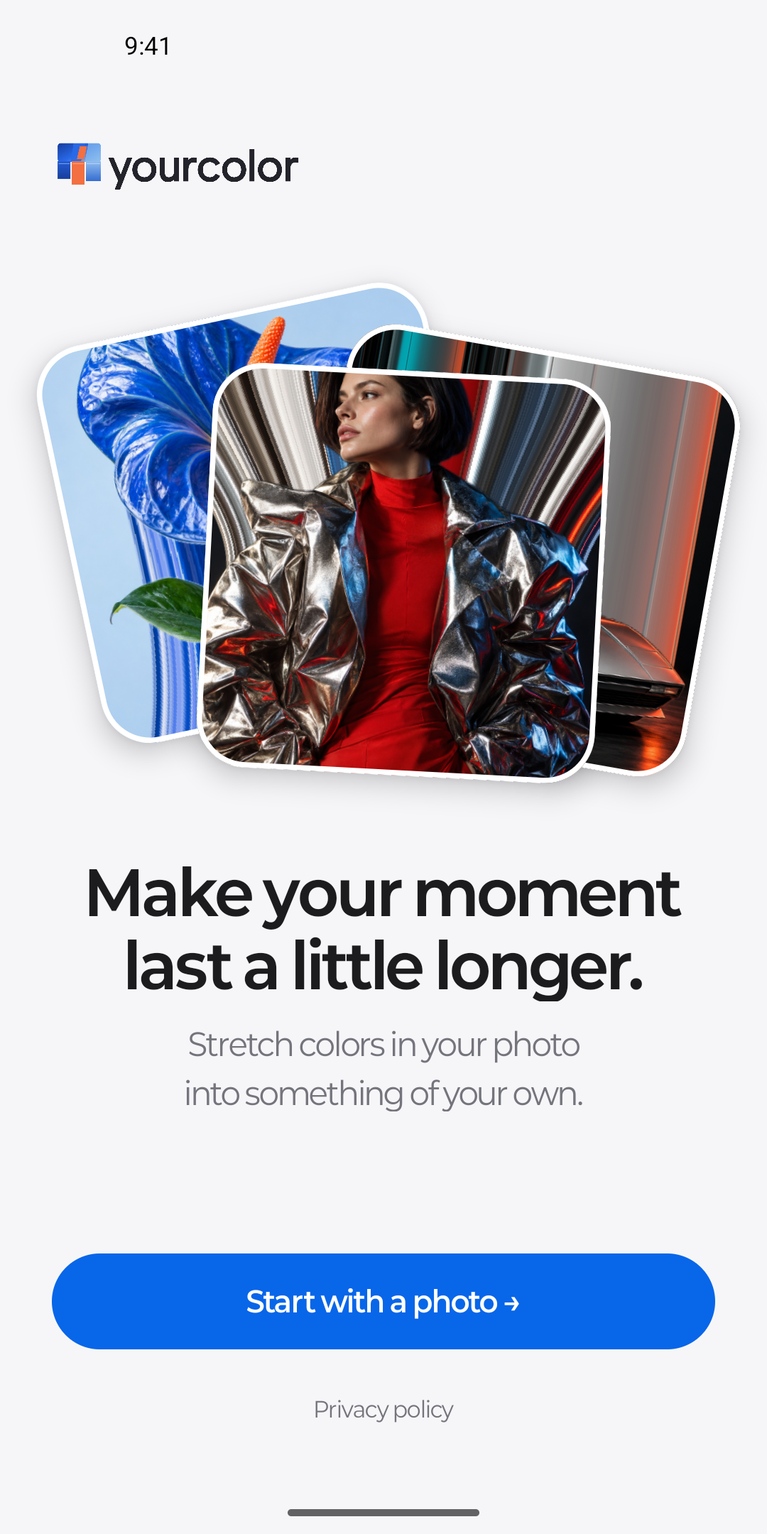
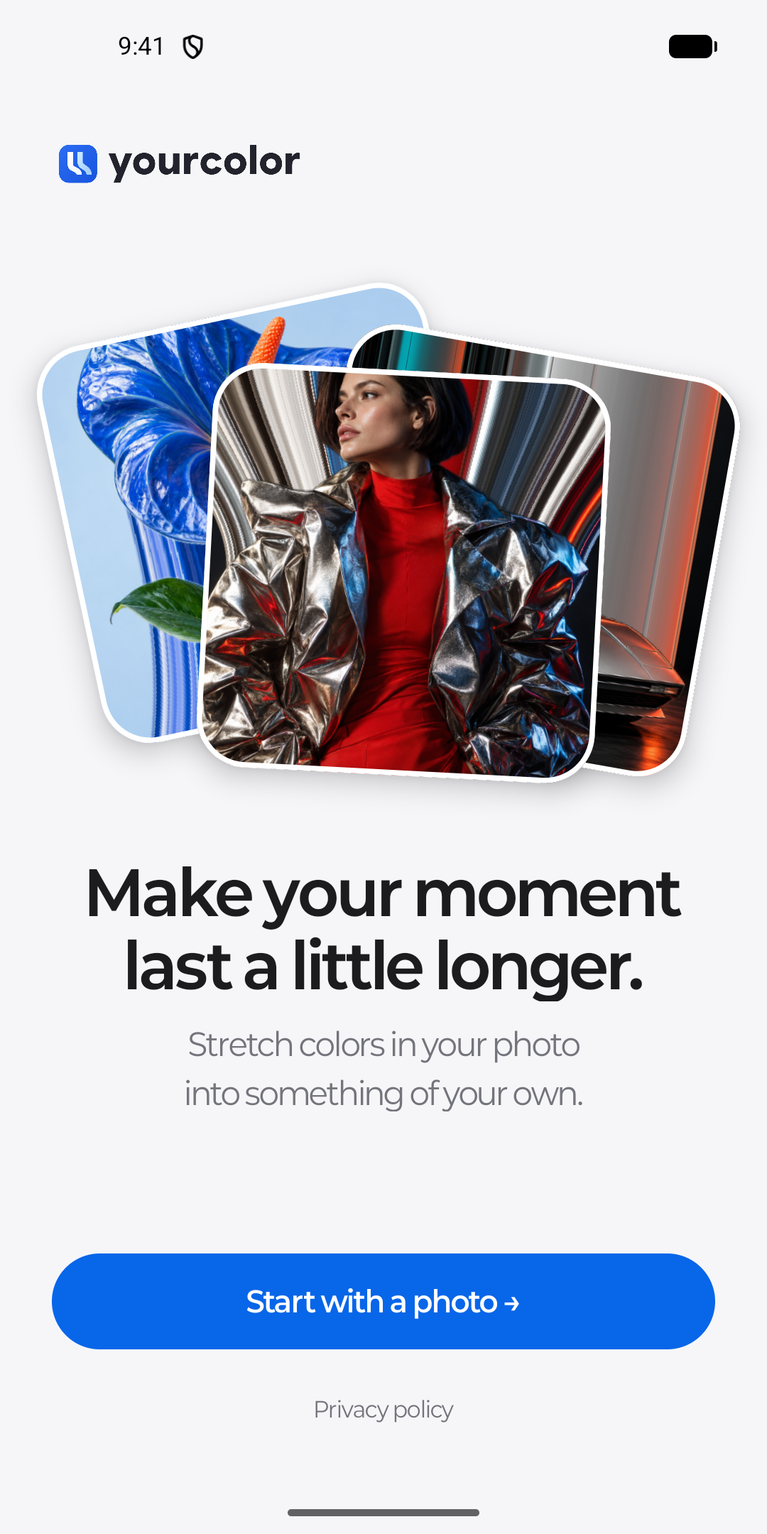
Prepare branded Android 2.0.2 release

diff --git a/privacy-android.html b/privacy-android.html
@@ -1,0 +1,64 @@
+<!doctype html>
+<html lang="ko">
+<head>
+  <meta charset="utf-8">
+  <meta name="viewport" content="width=device-width, initial-scale=1">
+  <title>YourColor Privacy Policy · 개인정보 처리방침</title>
+  <style>
+    body { margin: 0; background: #f6f6f9; color: #1c1c1e; font: 16px/1.7 system-ui, sans-serif; }
+    main { box-sizing: border-box; max-width: 760px; margin: 0 auto; padding: 48px 24px 80px; }
+    h1 { font-size: 32px; line-height: 1.3; margin: 0 0 12px; }
+    h2 { font-size: 20px; line-height: 1.4; margin: 36px 0 10px; }
+    p { margin: 0 0 14px; }
+    .date { color: #74747c; }
+    a { color: #0866e9; }
+    nav { display: flex; gap: 20px; margin-bottom: 28px; }
+    .english { border-top: 1px solid #dedee4; margin-top: 54px; padding-top: 24px; }
+  </style>
+</head>
+<body>
+<main>
+  <nav><a href="#en">English</a><a href="#ko">한국어</a></nav>
+  <section id="ko" lang="ko">
+  <h1>YourColor 개인정보 처리방침</h1>
+  <p class="date">시행일: 2026년 10월 11일</p>
+
+  <h2>1. 버전 2.0.0 이후: 처리하는 정보와 목적</h2>
+  <p>YourColor는 사용자가 Android 사진 선택기를 통해 고른 사진을 픽셀 스트레치 편집과 피사체 분리에 사용합니다. 사진은 사용자가 선택할 때만 접근하며, 앱의 전용 캐시에 복사해 기기 안에서 처리합니다. 피사체 분리에는 앱에 포함된 U²-NetP 모델을 사용합니다.</p>
+
+  <h2>2. 버전 2.0.0 이후: 전송과 제3자 제공</h2>
+  <p>버전 2.0.0 이후에는 인터넷 권한, 계정, 광고·분석 SDK와 자체 서버가 없습니다. 이 버전은 선택한 사진이나 편집 결과를 개발자 또는 제3자 서버로 전송하지 않습니다. 사용자가 시스템 저장 화면에서 외부 서비스를 저장 위치로 직접 선택하는 경우, 그 서비스의 처리는 해당 서비스의 정책에 따릅니다.</p>
+
+  <h2>3. 버전 2.0.0 이후: 보관과 삭제</h2>
+  <p>선택한 사진의 앱 전용 임시 복사본은 사진을 바꾸거나 홈으로 돌아갈 때 삭제합니다. 새 앱 세션을 시작할 때 남은 임시 사진을 정리합니다. 편집 중 생성한 임시 JPG는 앱의 캐시에 저장되며, 24시간이 지난 파일은 다음 앱 시작 때 삭제합니다. 사용자가 저장한 결과는 선택한 기기 사진 보관함 또는 저장 위치에 남고, 앱은 이를 자동으로 삭제하지 않습니다. 사용자는 기기의 사진·파일 앱에서 저장 결과를 직접 삭제할 수 있습니다. 앱 삭제 시 앱 전용 캐시도 삭제됩니다.</p>
+
+  <h2>4. 기존 버전 1: 데이터 처리</h2>
+  <p>이전에 제공된 버전 1(옛 이름 ‘너의퍼스널컬러는’)은 인터넷에 연결하고 외부 웹페이지를 열며 Google Mobile Ads 등 광고·분석 SDK를 포함합니다. 이 SDK를 통해 IP 주소(대략적인 위치 추정에 사용될 수 있음), 앱 상호작용, 진단 정보, 기기 또는 광고 식별자가 Google 등 SDK 제공자에게 전송될 수 있습니다. 이 정보는 광고 제공·측정, 사용 통계, 사기 방지에 이용될 수 있습니다. 전송 중에는 보안 연결을 사용합니다. SDK 제공자의 보관과 삭제 방식은 <a href="https://policies.google.com/privacy">Google 개인정보처리방침</a> 등 각 제공자의 정책을 따릅니다. 버전 2.0.0 이후에는 이 광고·분석 SDK가 포함되지 않습니다.</p>
+
+  <h2>5. 보안과 권리</h2>
+  <p>버전 2.0.0 이후에는 사진을 기기 안에서만 처리하고 앱 전용 공간에 임시 파일을 보관합니다. 별도의 회원 계정이나 개발자 서버 저장 데이터는 없습니다. 처리에 대한 문의나 삭제 요청은 아래 연락처로 보내 주세요. 기기에 저장한 결과의 삭제는 기기의 사진·파일 앱에서 직접 할 수 있습니다.</p>
+
+  <h2>6. 문의처</h2>
+  <p>YourColor 개인정보 문의: <a href="mailto:legendspeeches@gmail.com">legendspeeches@gmail.com</a></p>
+  <p>이 방침은 YourColor Android 앱에 적용됩니다. 처리 방식이 바뀌면 앱과 공개 방침을 함께 갱신합니다.</p>
+  </section>
+  <section id="en" lang="en" class="english">
+    <h1>YourColor Privacy Policy</h1>
+    <p class="date">Effective date: October 11, 2026</p>
+    <h2>1. Version 2.0.0 and later: Information used and purpose</h2>
+    <p>YourColor uses photos you choose through the Android Photo Picker to create pixel stretch artwork and separate subjects. The app accesses a photo only when you select it, copies it into its private cache, and processes it on your device. Subject separation uses a U²-NetP model bundled with the app.</p>
+    <h2>2. Version 2.0.0 and later: Transfers and third parties</h2>
+    <p>Version 2.0.0 and later has no internet permission, user accounts, advertising or analytics SDKs, or developer server. It does not send selected photos or edited images to the developer or a third-party server. If you choose an external service as the save destination in the system save screen, that service handles the file under its own policy.</p>
+    <h2>3. Version 2.0.0 and later: Storage and deletion</h2>
+    <p>The app deletes its temporary copy of a selected photo when you change photos or return home. Remaining temporary photos are cleared when a new app session starts. Temporary JPG files created during editing stay in the app cache; files older than 24 hours are deleted the next time the app starts. Saved images remain in the photo library or location you chose. The app does not delete them automatically. You can delete them in your device&#x27;s Photos or Files app. Uninstalling YourColor also removes its private cache.</p>
+    <h2>4. Earlier version 1: Data handling</h2>
+    <p>The earlier version 1 app (formerly named 너의퍼스널컬러는) connects to the internet, opens external web pages, and contains advertising and analytics SDKs, including Google Mobile Ads. These SDKs may transmit your IP address (which can be used to estimate approximate location), app interactions, diagnostics, and device or advertising identifiers to Google or other SDK providers. This information may be used to deliver and measure ads, analyze usage, and prevent fraud. Transmission uses a secure connection. Each provider&#x27;s policy, including the Google Privacy Policy (https://policies.google.com/privacy), governs retention and deletion. These advertising and analytics SDKs are absent from version 2.0.0 and later.</p>
+    <h2>5. Security and your choices</h2>
+    <p>Version 2.0.0 and later processes photos on the device and keeps temporary files in the app&#x27;s private space. There is no separate user account or data stored on a developer server. For questions about data handling or deletion, use the contact below. You can delete saved images directly from your device&#x27;s Photos or Files app.</p>
+    <h2>6. Contact</h2>
+    <p>YourColor privacy inquiries: legendspeeches@gmail.com</p>
+    <p>This policy applies to the YourColor Android app. If data handling changes, the in-app and public policies will be updated together.</p>
+  </section>
+</main>
+</body>
+</html>

diff --git a/android/release/RELEASE_CHECKLIST.md b/android/release/RELEASE_CHECKLIST.md
@@ -1,0 +1,49 @@
+# YourColor 기존 Google Play 앱 업데이트 준비
+
+최종 갱신: 2026-10-13. 이 문서는 `com.robotics.yourcolor`의 **기존 앱 업데이트**를 기록합니다. 새 픽셀 스트레치 앱 `versionCode=4`, `versionName=2.0.0`은 사용자 승인에 따라 2026-10-13 **프로덕션에 게시됐습니다.** Play 프로덕션 대시보드는 `활성 / 최신 출시 버전 4 (2.0.0)`, 대상 177개 국가/지역으로 표시합니다. 프로덕션 출시 탭은 `Google Play에 제공됨`, 콘솔 표시 게시 시각은 2026-10-13 오후 2:47입니다. 이전 공개 버전은 2022년의 코드 1이었고 코드 2·3은 출시하지 않았습니다.
+
+## 현재: 코드 6 (2.0.2) Google 검토 중
+
+- 코드 5(2.0.1)는 Play에 업로드됐지만 비활성 상태입니다. 이 버전 코드를 다시 사용할 수 없어 브랜딩 업데이트는 코드 6으로 제출했습니다. **현재 공개 프로덕션 버전은 여전히 코드 4(2.0.0)**입니다.
[1 lines of base64/hex data omitted]
+- Play는 코드 6 AAB를 접수했습니다. 프로덕션 100% 출시 설정과 스토어 등록정보를 포함한 **변경사항 8건을 Google 검토에 제출**했고, 게시 개요에는 `검토 중인 변경사항`으로 표시됩니다. 관리형 게시를 꺼서 승인되면 자동 게시되도록 설정했습니다. **코드 6은 아직 공개되지 않았습니다.** 검토 통과 후 실제 공개 상태를 다시 확인합니다.
+- 이번 제출의 앱 이름은 `yourcolor - 나만의 pixel stretch`, 공식 한국어 문구는 `사진 속 색을 펼쳐 만드는 나만의 픽셀 스트레치.`입니다. [한국어 문안](PLAY_STORE_KO.md)과 [영어 문안](PLAY_STORE_EN.md)에 코드 6 새 소식을 기록했습니다. 승인된 파란 리본 아이콘과 꽃 전후 비교 그래픽, 현지화된 휴대전화 스크린샷의 지역별 표시는 공개 후 확인합니다.
+
+## 코드 4의 배포·서명 이력
+
+- 기존 앱과 패키지명 `com.robotics.yourcolor`를 Play Console에서 대조했습니다. Play App Signing이 켜져 있습니다. 기존 프로덕션 코드 1의 공식 Play 서명 APK와 코드 4의 공식 Play 서명 APK를 확보했습니다. API 37 에뮬레이터에서 코드 1 설치 후 코드 4 공식 APK를 `install -r`로 설치해 성공했습니다. `firstInstallTime`과 앱 전용 파일의 SHA-256이 유지되고 코드 4가 정상 실행됐습니다. 검증 로그는 `../app/build/outputs/validation/play-v1-to-v4-update.txt`입니다.
+- 새 업로드 키는 `~/Library/Application Support/YourColor/release/upload-key-2026.p12`에, 비밀번호 파일은 같은 디렉터리에 있습니다. 두 파일은 Git에서 제외하며 내용은 문서·로그에 기록하지 않습니다. Play에 표시된 새 업로드 인증서 SHA-256은 `4B:CB:86:A3:37:A0:F9:C0:83:AE:E7:E0:04:A8:B7:EA:4B:44:93:BB:C5:BA:F0:70:51:78:86:BE:69:C6:61:00`이고 로컬 후보 키와 일치했습니다.
+- 키 사용 대기 시간은 끝났습니다. Play는 2026-10-13에 새 키로 서명한 코드 2·3·4 AAB를 접수했습니다. 코드 4는 내부 테스트에 출시됐고 이후 프로덕션에도 게시됐습니다. 코드 2·3은 출시하지 않았습니다. Play의 Android 개발자 인증 대시보드에는 이 앱이 **등록됨 / 소유권 확인됨**으로 표시됩니다. 별도의 앱 서명 APK 소유권 증명은 요구되지 않았습니다.
[1 lines of base64/hex data omitted]
+
+## 코드 4의 스토어·정책 게시 이력
+
+- 코드 4 공개 당시 앱 이름은 `YourColor`, 분류는 **사진**이며 태그는 사진·사진 편집기·예술/디자인입니다. 기존 퍼스널 컬러 진단 앱에서 기능이 크게 바뀌므로 이 사실을 당시 릴리스 노트에 명시했습니다. 코드 6 제출용 문안은 위에 연결한 파일에 따로 기록했습니다.
+- 기본 스토어 언어는 영어(미국)이고 영어(캐나다)·한국어 등록정보를 추가했습니다. 영문 휴대전화 스크린샷은 미국·캐나다에 각각 4장, 한국어는 6장입니다. 새 아이콘·기능 그래픽을 저장하고 구버전 태블릿 스크린샷은 제거했습니다. AI 생성 샘플 사진이 든 자산에는 Play의 AI 애셋 라벨을 지정했습니다.
[1 lines of base64/hex data omitted]
+- Play에 금융·건강 기능 없음, 정부 앱 아님, 코드 4의 광고 ID 미사용을 신고했습니다. 이전 코드 1에는 광고·분석 SDK가 있었으므로 데이터 보안 양식에는 그 버전의 대략적 위치(IP 추정), 앱 상호작용, 진단, 기기/기타 ID의 수집·공유 및 광고·분석·사기 방지 목적을 반영했습니다. 코드 4에는 인터넷 권한과 광고·분석 SDK가 없습니다. 게시 후 Play 데이터 보안 공개 표기와 배포 중인 버전 범위를 다시 확인해야 합니다.
+- 공개 문의 주소는 `legendspeeches@gmail.com`이고 연결되지 않는 `yourcolor.kr` 주소는 제거했습니다. 앱은 무료이며 프로덕션 대상은 미국·캐나다·한국을 포함한 177개 국가/지역입니다. 계정·결제·광고가 없는 사진 편집 앱이라는 현재 앱 액세스·대상 연령·콘텐츠 등급 선언을 다시 대조했습니다.
+- 스토어·앱 콘텐츠와 코드 4 비공개 Alpha·프로덕션을 포함한 **15개 변경사항**은 Google 검토를 통과했습니다. 사용자 승인에 따라 관리형 게시 상태에서 Play Console의 **`변경사항 15개 게시` → `변경사항 출시`**를 실행했고 **`변경사항이 게시되었습니다.`** 확인 문구를 봤습니다. 프로덕션 대시보드와 출시 탭에서 코드 4 제공 상태를 재확인했습니다. 관리형 게시 설정은 공개 시점을 제어하는 데 사용했습니다.
+
+## 코드 4의 로컬 검증과 알려진 한계
+
+- 코드 4 릴리스 APK·AAB 빌드가 성공했습니다. API 24 에뮬레이터에서 연결 테스트 9개 통과·API 29 이상 전용 1개 건너뜀, API 37에서 10개 통과했습니다. API 36의 **16KB 페이지 크기 에뮬레이터**에서는 최종 전체 계측 검사 **10개가 한 번에 통과**했습니다. 초기 검사에서 8px 스크롤 위치 차이로 실패한 이력과 최종 재검사 로그는 [검증 기록](../../document/android-validation.md)에 구분했습니다. 8개 화면 프로필도 통과했습니다.
+- 코드 3의 API 24 홈 시작 버튼은 잘렸지만 코드 4에서는 같은 화면 크기로 다시 확인했습니다. Pixel Fold 에뮬레이터의 `OPENED`·`CLOSED`·`HALF_OPENED` 상태와 가로 회전에서 편집 상태 유지도 확인했습니다. 실제 제조사 힌지와 One UI 동작은 별도입니다.
+- Play Bundle Explorer는 코드 4에서 **16KB 페이지 크기 지원**을 감지했습니다. 이 신호와 에뮬레이터 실행은 서로 다른 검증입니다. 최종 코드 4에서 `assembleRelease`, `bundleRelease`, `lintVitalRelease` 성공을 확인했습니다. `testDebugUnitTest`와 `lintDebug`는 코드 4 수정 후 다시 실행한 결과가 아직 없습니다.
+- 사용자는 실기기를 보유하지 않으며 실기기 시험은 이번 출시의 필수 조건에서 제외했습니다. 에뮬레이터 및 Play 사전 출시 보고서로 API 24·최신 API, 폴더블 크기·회전·접힘/펼침과 16KB 페이지 크기 환경을 가능한 범위에서 확인합니다. Z Fold의 One UI·실제 힌지·실기기 성능과 LG V20 실기기 동작은 확인되지 않은 범위로 명시합니다.
+- 게시 **전** Play 정책 상태에는 코드 1에 대한 대상 API 35/36, 16KB 페이지 크기, 구형 SDK 경고가 남아 있었습니다. 코드 4는 `targetSdk 36`이며 16KB 지원과 에뮬레이터 실행을 확인했습니다. 게시 직후 정책 화면에도 해당 경고가 남아 있었으므로 Play 상태 갱신을 계속 확인해야 합니다. 한국어 공개 스토어에서는 버전 2.0.0, 새 설명·스크린샷·사진 분류와 데이터 보안 항목을 확인했습니다. 코드 4 프로덕션 비교 화면에는 지원 기기 축소(전화 1,630개, 태블릿 404개, TV 3개)가 표시됐습니다. 대부분 `minSdk 24`로 올라간 영향이며 Play가 표시한 전화·태블릿의 영향 받는 기존 설치 수는 각각 0입니다. TV의 영향 설치 수는 확인되지 않았습니다.
+
+## 코드 6 검토·게시 후 확인 항목
+
+1. Google 검토 결과와 자동 게시 상태를 확인합니다. 승인 후 Play 프로덕션 대시보드와 공개 스토어에 코드 6(2.0.2)이 표시되는지 확인합니다. 100% 출시 설정만으로 공개됐다고 기록하지 않습니다.
+2. 한국어·영어(미국·캐나다) 앱 이름·짧은 설명·아이콘·기능 그래픽·휴대전화 스크린샷 및 AI 애셋 라벨을 지역별 공개 스토어에서 확인합니다.
+3. 공개 개인정보처리방침 페이지와 앱 내 한국어·영어 정책 사본의 시점 표현을 맞추고, 데이터 보안 신고·정책 경고·사전 출시 보고서·충돌 및 ANR 상태를 확인합니다.
+
+## 코드 4 게시 직후의 확인 기록
+
+1. 게시 직후에도 남은 코드 1 관련 대상 API·16KB·SDK 경고가 Play에서 갱신되는지 확인합니다. 한국어 공개 스토어의 버전 2.0.0, 새 설명·이미지·사진 분류, 데이터 보안 항목은 확인했습니다. 미국·캐나다의 지역별 문안·이미지와 공개 개인정보처리방침 연결도 추가 확인합니다. Play 대시보드의 `활성 / 최신 출시 버전 4 (2.0.0)` 및 177개 국가/지역은 이미 확인했습니다.
+2. Play 사전 출시 보고서는 게시 직후에도 개요에 **‘아티팩트를 업로드하여 사전 출시 보고서 생성’** 안내만 보여 결과가 없었습니다. 추후 결과가 나타나면 충돌·호환성·정책 경고에 대응합니다. 테스터 이메일이나 사용자 실기기를 필수 선행 조건으로 두지 않습니다.
+3. 코드 4의 `testDebugUnitTest`·`lintDebug`는 마지막 수정 후 재실행 결과가 없으므로 필요하면 실행합니다. 16KB 전체 계측 테스트는 최종 10개 모두 통과했습니다. 실기기에서만 확인 가능한 범위는 [검증 기록](../../document/android-validation.md)에 남깁니다.
+4. 6시간 간격의 Codex heartbeat `YourColor 배포 후 확인`을 다시 활성화했습니다. 2026-10-15 오후 3시(미 동부)까지 공개 버전·정책 경고·사전 출시 보고서·충돌 및 ANR 상태를 확인하고, 상태 변화나 조치가 필요할 때만 알립니다. Muse의 시간당 감시는 별도 일정으로 등록되지 않았습니다.
+
+공식 자료: [앱 업데이트](https://support.google.com/googleplay/android-developer/answer/9859350), [Play App Signing](https://support.google.com/googleplay/android-developer/answer/9842756), [데이터 보안](https://support.google.com/googleplay/android-developer/answer/10787469).

diff --git a/document/android-validation.md b/document/android-validation.md
@@ -1,17 +1,25 @@
 # Android 디자인 v4 검증 기록
 
-기초 검증일: 2026-10-11. 2026-10-13 출시 후보 상태를 아래에 덧붙였습니다. 제목의 v4는 **디자인 시안 버전**이며 Play의 `versionCode=4`와 다릅니다. 승인된 `yourcolor-design-v4.html`을 Kotlin 네이티브 앱으로 반영했습니다. 이 기록은 초기 ML Kit·자동 구도 앱의 이전 검증을 대체합니다. 현 구현은 자동 구도를 적용하지 않으며, U²-NetP를 앱에 포함합니다.
+기초 검증일: 2026-10-11. 코드 4 공개 검증 및 코드 6 후보 기록 갱신일: 2026-10-13. 제목의 v4는 **디자인 시안 버전**이며 Play의 `versionCode=4`와 다릅니다. 승인된 `yourcolor-design-v4.html`을 Kotlin 네이티브 앱으로 반영했습니다. 이 기록은 초기 ML Kit·자동 구도 앱의 이전 검증을 대체합니다. 현 구현은 자동 구도를 적용하지 않으며, U²-NetP를 앱에 포함합니다.
 
 2026-10-11의 홈·로딩·피사체 화면 정리 후 API 37의 일반 화면에서 실제 캡처로 하단 여백 24dp와 편집 헤더의 세로 중심을 확인했습니다. API 24 에뮬레이터도 재부팅에 성공해 당시 구현의 기능 테스트를 실행했습니다. 이후 코드 3에서 API 24 홈 시작 버튼이 잘리는 문제가 발견됐으므로 아래의 과거 화면 검사 통과는 최종 출시 후보의 검증으로 간주하지 않습니다.
 
-## 2026-10-13 출시 후보 상태
+## 2026-10-13 코드 6 후보 상태
 
-- Play 내부 테스트 초안에 새 업로드 키로 서명한 코드 2·3 AAB가 접수됐습니다. 두 번들 모두 출시되지 않았습니다. 업로드 키 대기와 Android 개발자 인증 단계는 끝났고 대시보드에는 앱이 **등록됨 / 소유권 확인됨**으로 표시됩니다.
-- 코드 3에서 API 24 홈 시작 버튼의 하단 잘림을 발견했습니다. 수정 후 코드 4 (`versionName=2.0.0`)를 새 후보로 빌드·검증합니다. 코드 4의 테스트, 서명, SHA-256, Play 접수와 사전 출시 보고서는 아직 완료로 기록하지 않습니다.
-- Play의 공식 서명 코드 1 APK를 확보했습니다. 이를 설치한 뒤 코드 4로 업데이트하는 검사는 별도로 확인해야 합니다. 전용 16KB 페이지 크기 에뮬레이터 실행, 폴더블 접힘·펼침 및 회전의 최종 후보 검증도 결과가 나온 뒤 기록합니다.
-- 계정별 `adi-registration.properties`는 배포 소스와 AAB에서 제거해야 합니다. 빌드 설정에 파일 존재 시 실패하는 검사가 추가됐으며 최종 번들 내용 검사로 확인합니다.
+- Play 프로덕션의 최신 공개 버전은 코드 4(2.0.0)입니다. 코드 5(2.0.1)는 Play에 업로드됐지만 비활성 상태이며, 이번 브랜딩 업데이트는 코드 6(2.0.2)으로 준비했습니다. Play가 코드 6 AAB를 접수했고, 프로덕션 100% 출시와 등록정보를 포함한 변경사항 8건은 Google 검토 중입니다. 관리형 게시를 꺼서 승인되면 자동 게시되도록 설정했으며, 코드 6은 아직 공개되지 않았습니다.
[1 lines of base64/hex data omitted]
+- 아래 API 24·37·16KB 페이지 크기 계측 검사 및 화면 프로필은 **코드 4 공개 빌드의 기록**입니다. 코드 6에 대해 같은 전체 검사가 재실행됐다는 뜻은 아닙니다. 코드 6의 새 브랜드 자산은 앱 아이콘·홈 로고·영문 홈 스크린샷과 스토어 그래픽에서 별도 확인합니다.
 
-## 결과
+## 2026-10-13 코드 4 공개 검증
+
+- 코드 3에서 API 24 홈 시작 버튼의 하단 잘림을 발견해 수정했습니다. 코드 4 (`versionName=2.0.0`)를 새 업로드 키로 빌드해 내부 테스트와 프로덕션에 출시했습니다. 사용자 승인에 따라 관리형 게시에서 15개 변경사항을 게시했고 Play는 **`변경사항이 게시되었습니다.`**라고 확인했습니다. 프로덕션 대시보드는 **`활성 / 최신 출시 버전 4 (2.0.0)`**, 177개 국가/지역을 표시하며 출시 탭은 **`Google Play에 제공됨`**, 콘솔 표시 게시 시각은 2026-10-13 오후 2:47입니다.
[1 lines of base64/hex data omitted]
+- API 24 에뮬레이터에서 연결 테스트 **9개 통과·1개 건너뜀**(Android 10 이상 전용 검사), API 37에서 **10개 통과**했습니다. API 36의 **16KB 페이지 크기 에뮬레이터**에서도 최종 전체 계측 검사 **10개가 한 번에 통과**했습니다(`android/app/build/outputs/validation/16kb-api36-final-v4-green.txt`). 앞선 실행에서는 스크롤 위치가 30px 대신 22px으로 측정돼 레이아웃 검사 1개가 실패했으며, 단독 재실행과 최종 전체 재실행에서 통과했습니다. 초기 실패와 최종 결과를 모두 보존했습니다.
+- 화면 프로필 결과 JSON의 **8개 조건**이 통과했고, API 24 화면 조건은 별도 검사했습니다. Pixel Fold 에뮬레이터의 `OPENED`·`CLOSED`·`HALF_OPENED` 전환과 가로 회전에서 편집 상태가 유지됐습니다. Play Bundle Explorer도 코드 4의 **16KB 페이지 크기 지원**을 감지했습니다. 실제 Z Fold One UI·힌지 동작은 확인되지 않았습니다.
[1 lines of base64/hex data omitted]
+- Play 제출 ID 2가 `출시 준비` 상태가 된 뒤와 프로덕션 게시 직후에도 사전 출시 보고서 개요에는 **‘아티팩트를 업로드하여 사전 출시 보고서 생성’** 안내만 표시됐습니다. 게시 직후까지 보고서 결과는 없었습니다.
+
+## 2026-10-11 기준 결과 (이전 후보)
 
 - 당시 `assembleDebug`, `assembleDebugAndroidTest`, `testDebugUnitTest`, `lintDebug`, `assembleRelease`, `bundleRelease` 성공. 당시 APK·AAB는 새 업로드 키로 서명했으며 이후 Play가 같은 키로 서명한 AAB를 접수했습니다. 이 빌드 결과는 코드 4의 검사 결과가 아닙니다.
 - 순수 상태 단위 테스트 **7개 통과**.
@@ -19,7 +27,7 @@
 - Android 17/API 37 ARM64에서 테스트 **10개 통과**. 저장 준비 중 화면 재생성 후 파일 생성도 검사합니다.
 - 아래 화면 프로필에서 시작·선택·편집·피사체 보정·저장·저장 버튼 접근성 검사. Activity 재생성 시 조절값과 보정 초안 유지, 도구 전환 시 스크롤 유지도 검사합니다.
 - Lint **오류 0**. 남은 경고는 라이브러리 새 버전 알림, 그리기 중 객체 할당, KTX 스타일 제안, ChromeOS용 x86 ABI 제안 등입니다. API 24에서 호출할 수 없는 API 오류는 수정했습니다.
-- APK의 16KB ZIP 정렬 통과. 포함된 ARM64/ARMv7 ONNX 공유 라이브러리의 ELF LOAD 세그먼트도 16KB 정렬을 확인했습니다. **16KB 메모리 페이지 기기에서 실행한 결과는 아닙니다.**
+- 당시 APK의 16KB ZIP 정렬 통과. 포함된 ARM64/ARMv7 ONNX 공유 라이브러리의 ELF LOAD 세그먼트도 16KB 정렬을 확인했습니다. 이 당시에는 16KB 페이지 크기 실행을 하지 않았고, 위에 기록한 코드 4 검증에서 별도로 실행했습니다.
 - 최종 manifest에 `INTERNET` 권한이 없음을 실행 중 패키지 정보로 검사했고, 번들 모델로 세 샘플을 실제 추론했습니다.
 - 릴리스 APK를 **로컬 검증 전용 디버그 키**로 임시 서명해 API 37 에뮬레이터에 설치·실행했습니다. 이 파일은 Play 업로드에 사용하지 않습니다.
 
@@ -78,4 +86,4 @@ API 24 테스트 이미지의 앱 힙 한도는 48 MiB였습니다. 초기 1200p
 - 빌드·테스트 로그: `android/app/build/outputs/validation/`
 - 최종 개발용 APK: `android/app/build/outputs/apk/debug/app-debug.apk`
 
-검사 결과물과 APK는 생성 파일이므로 Git에서 제외합니다. 실기기 시험은 이번 출시의 필수 조건에서 제외했습니다. 2026-10-13 현재 Play 내부 테스트 초안의 코드 2·3은 공개되지 않았고 코드 4 검증이 남았습니다. 위의 16KB ZIP/ELF 정렬은 이전 후보의 결과이며 **16KB 페이지 크기 실행 성공을 의미하지 않습니다.** 삼성 One UI의 실제 힌지 전환·성능과 LG V20 동작은 실기기를 확보한 뒤 확인합니다. 프로젝트 저장 기능이 없어 프로세스가 완전히 종료되면 편집은 복구되지 않습니다.
+검사 결과물과 APK는 생성 파일이므로 Git에서 제외합니다. 실기기 시험은 이번 출시의 필수 조건에서 제외했습니다. 코드 4는 16KB 페이지 크기 에뮬레이터의 최종 전체 검사 10개를 통과했고 Play Bundle Explorer의 지원 감지도 확인했습니다. 코드 6에서 확인한 범위는 위의 후보 항목에 따로 적었습니다. 초기 레이아웃 검사 실패와 최종 통과는 위에 구분해 기록했습니다. 삼성 One UI의 실제 힌지 전환·성능과 LG V20 동작은 실기기를 확보한 뒤 확인합니다. 프로젝트 저장 기능이 없어 프로세스가 완전히 종료되면 편집은 복구되지 않습니다.

diff --git a/android/release/PLAY_STORE_KO.md b/android/release/PLAY_STORE_KO.md
@@ -1,0 +1,52 @@
+# Google Play 등록 문안 · 한국어
+
+픽셀 스트레치 앱의 한국어 스토어 문안입니다. 공개된 `versionCode=4`, `versionName=2.0.0`의 기능 설명을 유지하며, `versionCode=6`, `versionName=2.0.2`에서 확정된 이름·로고·이미지 자산을 적용합니다. 코드 6의 게시 상태는 Play Console과 공개 스토어에서 확인합니다.
+
+## 앱 이름
+
+yourcolor - 나만의 pixel stretch
+
+## 짧은 설명
+
+사진 속 색을 펼쳐 만드는 나만의 픽셀 스트레치.
+
+## 자세한 설명
+
+너의 순간을, 조금 더 길게.
+
+yourcolor는 사진 속 색을 길게 펼쳐 픽셀 스트레치 작품을 만드는 사진 편집 앱입니다. 사진을 고르고, 피사체를 다듬고, 원하는 방향과 모양을 정해 JPG로 저장하세요.
+
+• 위·아래·왼쪽·오른쪽으로 색 늘리기
+• 늘어나는 길이와 시작선 직접 조절
+• 직선·펼침·곡선 모양 선택
+• 브러시로 피사체 영역 보호·지우기
+• 원본 비교, 실행 취소·다시 실행
+• 완성 이미지를 기기에 JPG로 저장
+
+기본 제공 작품으로 편집을 먼저 체험할 수 있습니다. 선택한 사진은 기기 안에서 처리하며, 피사체 분리 모델은 앱에 포함되어 있습니다. 계정 가입 없이 사용할 수 있습니다.
+
+피사체 경계는 사진에 따라 다르게 인식될 수 있습니다. 머리카락이나 복잡한 배경은 브러시로 조정하세요. 저장한 이미지에는 워터마크가 없습니다.
+
+## 업데이트 새 소식 · 2.0.2
+
+새 로고와 앱 아이콘을 적용하고 시작 화면의 브랜드 디자인을 다듬었습니다.
+
+## 스토어 입력값 초안
+
+| 항목 | 입력값 또는 확인할 내용 |
+| --- | --- |
+| 문의 이메일 | legendspeeches@gmail.com |
+| 개인정보처리방침 | `https://ika9810.github.io/yourcolor-privacy/` (공개 HTTPS 페이지와 로컬 원문 해시 일치, Play 변경사항 게시 완료). |
+| 광고 | 코드 6에 광고 SDK·광고 화면 없음. 이전 코드 1에는 광고 SDK가 있었음. |
+| 앱 액세스 | 계정·로그인 없음. 기본 샘플로 기능 체험 가능. |
+| 데이터 보안 | 코드 6에는 인터넷 권한·광고·분석 SDK가 없음. 이전 코드 1의 광고·분석 SDK를 반영한 신고는 Play Console에 게시돼 있음. 코드 6 제출 시 신고 상태를 다시 확인함. |
+| 콘텐츠 등급·대상 연령 | 로그인·결제·광고 없는 사진 편집 기능과 Play 선언을 대조해 검토·게시함. 공개 표기는 게시 후 재확인 필요. |
+| 가격·국가 | 무료. 미국·캐나다·한국을 포함한 177개 국가/지역. |
+
+## 이미지 자산
+
+- `../release-assets/screenshots/`의 PNG 6장은 실제 에뮬레이터에서 1080×2160으로 캡처했습니다. 권장 순서: `01-home`, `02-editor`, `03-mask`, `06-export`. `05-mask-tools`는 피사체 다듬기의 하단 도구를 보여 주는 추가 컷이며 사진 상단은 스크롤로 잘려 있습니다. `04-controls`는 추가 도구 설명용입니다.
+- `../release-assets/store-icon.png`는 승인된 파란색 픽셀 스트레치 리본 로고의 512×512 PNG입니다. `../release-assets/feature-graphic.png`는 꽃 사진의 원본과 색을 펼친 결과를 함께 보여 주는 1024×500 PNG입니다. `branding/build-assets.cjs`로 SVG와 PNG를 다시 생성할 수 있습니다.
+- 스크린샷 6장에는 AI 생성 샘플 사진이 포함되어 있어 Play Console의 AI 애셋 라벨을 지정했습니다. 코드 4의 스토어 문안과 이미지는 이미 게시됐습니다. 코드 6의 최종 아이콘·그래픽·스크린샷과 이름은 제출 후 한국어 및 각 지역 공개 화면에서 확인합니다.
+
+공식 입력 제한과 이미지 규격: [스토어 등록 정보](https://support.google.com/googleplay/android-developer/answer/9859152), [미리보기 애셋](https://support.google.com/googleplay/android-developer/answer/9866151).

diff --git a/android/release/PLAY_STORE_EN.md b/android/release/PLAY_STORE_EN.md
@@ -1,0 +1,42 @@
+# Google Play listing · English (United States and Canada)
+
+English listing copy for the pixel stretch app. The feature description retains the capabilities already released in version code 4 (2.0.0). The approved title and brand graphics are prepared for version code 6 (2.0.2) in English (United States) and English (Canada); verify publication in Play Console and the public Store. Korean has its own localized listing.
+
+## App name
+
+yourcolor - 나만의 pixel stretch
+
+## Short description
+
+Stretch the colors in your photos into your own pixel stretch artwork.
+
+## Full description
+
+Make your moment last a little longer.
+
+yourcolor turns colors from your photos into pixel stretch artwork. Pick a photo, refine the subject, choose a direction and shape, and save your creation as a JPG.
+
+• Stretch colors up, down, left, or right
+• Adjust the stretch length and starting line
+• Choose straight, fan, or curved shapes
+• Protect or erase subject areas with a brush
+• Compare with the original, undo, and redo
+• Save finished images to your device as JPGs
+
+Try the editor with the included sample photos. Your selected photos are processed on your device, and the subject separation model is built into the app. No account is needed.
+
+Subject edges may vary by photo. You can refine hair or complex backgrounds with the brush. Saved images have no watermark.
+
+## What's new
+
+Updated the logo and app icon, and refreshed the home screen branding.
+
+## Store images · 2.0.2
+
+- Use the approved blue ribbon mark in `../release-assets/store-icon.png` (512×512) and the flower before/after comparison in `../release-assets/feature-graphic.png` (1024×500).
+- English (United States) and English (Canada) phone screenshots are ordered `07-en-home.png`, `10-en-mask.png`, `09-en-editor.png`, and `11-en-export.png` in Play Console. The first screenshot shows the approved ribbon icon and wordmark. Keep the Play Console AI asset labels for screenshots containing AI-generated sample photographs. `08-en-picker.png` remains available in the source assets for later use.
+
+## Contact and policy
+
+- Contact: legendspeeches@gmail.com
+- Privacy policy: https://ika9810.github.io/yourcolor-privacy/
